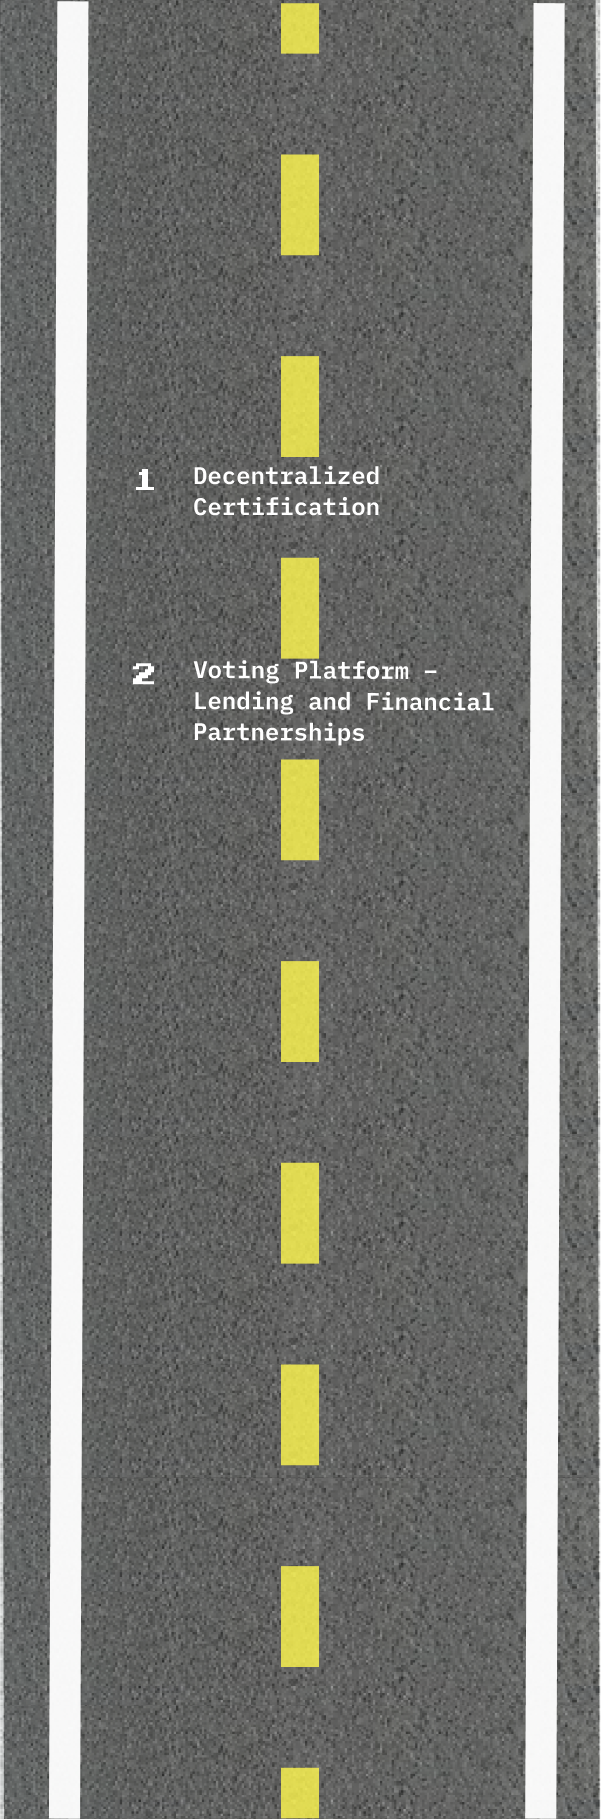
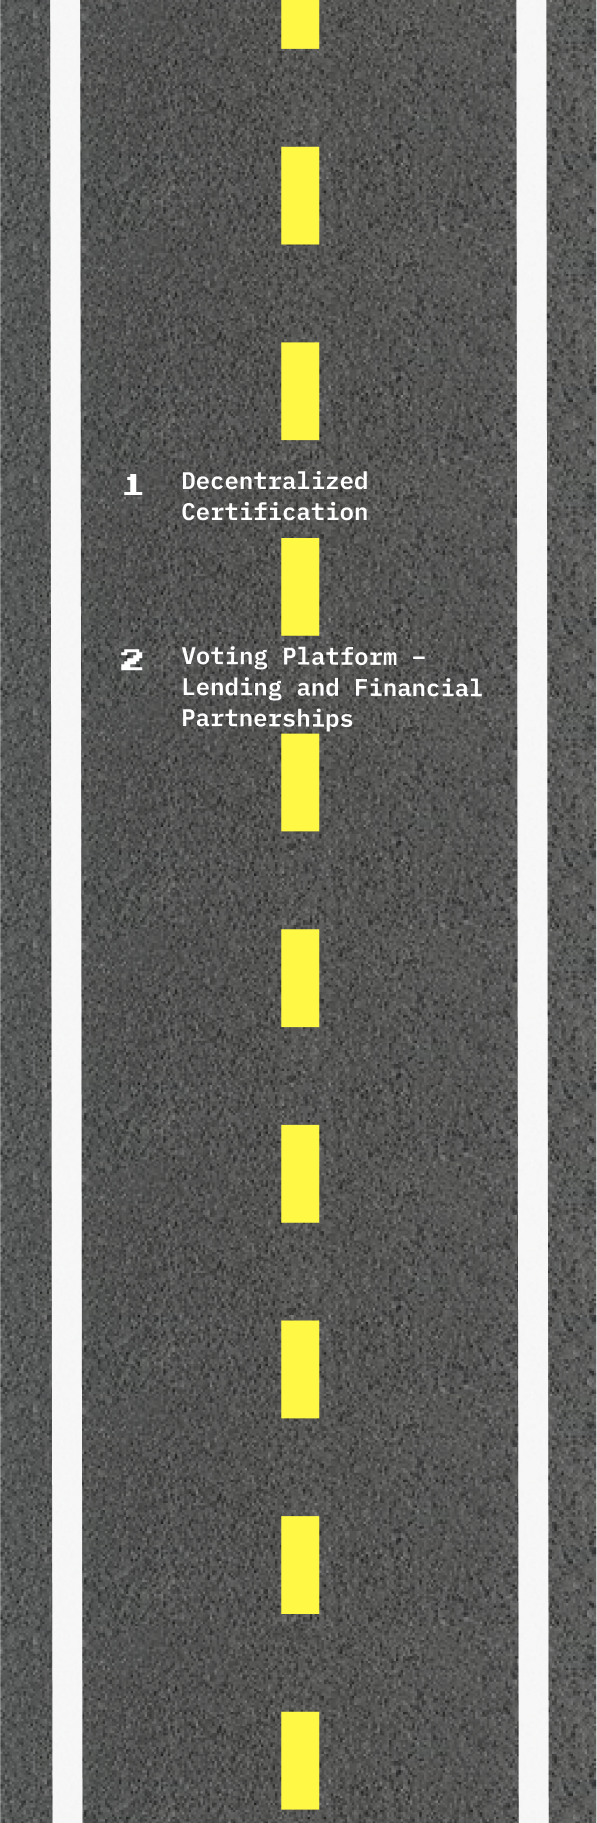
updating bg -images and text

diff --git a/src/app/page.js b/src/app/page.js
@@ -2,6 +2,7 @@
 /* eslint-disable @next/next/no-img-element */
 /* eslint-disable spaced-comment */
 /* eslint-disable react/no-unescaped-entities */
+
 import Image from "next/image";
 import "./page.scss";
 import "../scss/globals.scss";
@@ -74,14 +75,13 @@ export default function Home() {
                             <p className="title fmb text-[24px] mt-14 md:block hidden vector1">
                                 Start laying $BRICKS
                             </p>
-                            <div className="mt-3 md:font-semibold font-normal text-sm sm:text-base md:text-lg md:block hidden">
+                            <div className="mt-3 font-semibold text-base md:block hidden">
                                 <p>
-                                    This platform provides our community with access to
-                                    institutional-grade occupiers and builds wealth through
-                                    sophisticated real estate transactions fueled by digital asset
-                                    growth. An original and simple approach which prioritizes smart
-                                    hedging strategies, consistent dividend generation, and creating
-                                    capital value appreciation.
+                                    Physical asset investment platform fueled by virtual asset growth. 
+                                    The Bricklayer community provides decentralized access to institutional-grade
+                                    real estate and builds wealth through occupier focussed transactions. 
+                                    An original yet simple approach which prioritizes consistent dividend 
+                                    generation and value appreciation.
                                 </p>
                             </div>
 
@@ -92,12 +92,11 @@ export default function Home() {
                             </div>
                             <div className="mt-3 font-semibold md:hidden block text-[16px]">
                                 <p>
-                                    This platform provides our community with access to
-                                    institutional-grade occupiers and builds wealth through
-                                    sophisticated real estate transactions fueled by digital asset
-                                    growth. An original and simple approach which prioritizes smart
-                                    hedging strategies, consistent dividend generation, and creating
-                                    capital value appreciation.
+                                    Physical asset investment platform fueled by virtual asset growth. 
+                                    The Bricklayer community provides decentralized access to institutional-grade
+                                    real estate and builds wealth through occupier focussed transactions. 
+                                    An original yet simple approach which prioritizes consistent dividend 
+                                    generation and value appreciation.
                                 </p>
                             </div>
 
@@ -110,7 +109,7 @@ export default function Home() {
                                 }}
                             >
                                 <span
-                                    className="absolute top-1/2 left-1/2 transform -translate-x-1/2 -translate-y-1/2 text-center"
+                                    className="absolute top-1/2 left-1/2 transform -translate-x-1/2 -translate-y-1/2 text-center fmb text-[20px]"
                                     style={{ zIndex: 1 }}
                                 >
                                     Coming Soon...

diff --git a/src/app/roadmap/page.js b/src/app/roadmap/page.js
@@ -19,21 +19,19 @@ export default function useRoadmap() {
         switch (activeYear) {
             case 1:
                 return (
-                    <div className="bg-small-towers2">
-                        <div className="bg-road1 flex justify-center invisible">
+                        <div className="bg- justify-center">
                             <img
-                            className=""
+                            className="invisible"
                             src="/bg-images/road-year1.png"
                             alt=""
                             ></img>
                         </div>
-                    </div>
                 );
             case 2:
                 return (
-                    <div className='bg-road2 flex justify-center invisible'>
+                    <div className='flex justify-center'>
                        <img
-                            className=""
+                            className="invisible"
                             src="/bg-images/road-year2.png"
                             alt=""
                             ></img>
@@ -41,9 +39,9 @@ export default function useRoadmap() {
                 );
             case 3:
                 return (
-                    <div className="bg-road3 flex justify-center invisible">
+                    <div className="flex justify-center">
                         <img
-                            className=""
+                            className="invisible"
                             src="/bg-images/road-year3.png"
                             alt=""
                             ></img>
@@ -56,8 +54,8 @@ export default function useRoadmap() {
     return (
         <>
             <div className={`main ${activeYear === 1 ? "bg-road1" : ""} ${activeYear === 2 ? "bg-road2" : ""} ${activeYear === 3 ? "bg-road3" : ""} overflow-x-hidden`}>
-                <div className="bg-small-towers">
-                    <div className="title fmb text-4xl sm:text-7xl text-center mt-14">ROADMAP</div>
+                <div className="">
+                    <div className="roadmap-title fmb text-4xl sm:text-7xl text-center mt-14 z-10">ROADMAP</div>
                     <div className="bg-blur mt-8">
                         <div className="flex justify-center gap-6 py-4">
                         <button

diff --git a/src/app/roadmap/roadmap.scss b/src/app/roadmap/roadmap.scss
@@ -20,20 +20,11 @@
 }
 
 @media screen and (min-width: 1200px) {
-    .bg-small-towers {
-        background-image: url("/bg-images/small-towers.png");
+    .bg-towers {
+        background-image: url("/bg-images/towers-roadmap.png");
         background-repeat: no-repeat;
-        background-size: 33%;
-        background-position: left 1200px;
-    }
-}
-
-@media screen and (min-width: 1200px) {
-    .bg-small-towers2 {
-        background-image: url("/bg-images/small-towers2.png");
-        background-repeat: no-repeat;
-        background-size: 33%;
-        background-position: right bottom;
+        background-size: contain;
+        background-position: bottom;
     }
 }
 
@@ -112,6 +103,7 @@
         margin-right: 15%;
     }
 }
+
 ::-webkit-scrollbar {
     width: 10px; /* Width of the scrollbar */
     background: rgba(226, 110, 93, 0.3); /* Color of the scrollbar handle with opacity */

diff --git a/src/app/Ap/Ap.scss b/src/app/Ap/Ap.scss
@@ -30,9 +30,9 @@
 
   @media only screen and (min-width: 768px) {
     .bg-img {
-        background-image: url("/bg-images/home-bg.png");
+        background-image: url("/bg-images/factory.png");
         background-size: contain;
-        background-position: bottom;
+        background-position: 0px 65%;
         background-repeat: no-repeat;
     }
 }
